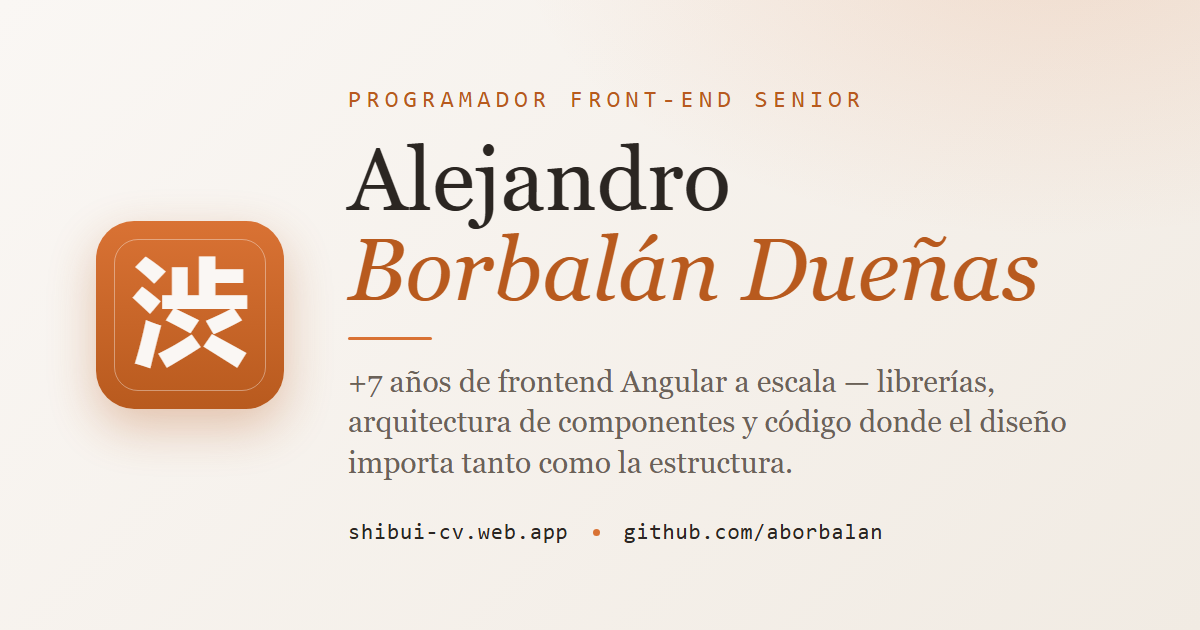
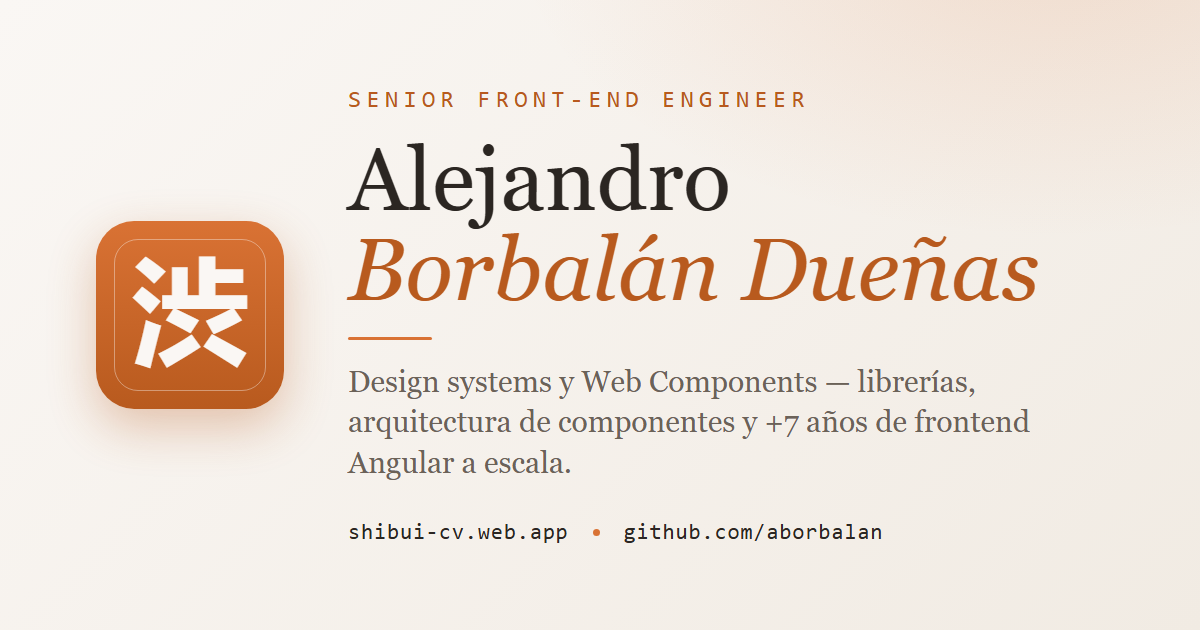
feat(app-cv): reposicionar titular hacia design engineer
profile.title pasa a "Senior Front-end Engineer · Angular & Web
Components · Design Systems · Open to Remote" (un solo string con
separador " · "); el hero lo trocea en kicker de 2 niveles (rol como
eyebrow + especialidades en línea mono muted con segmentos no
partibles). La tagline abre con design systems. Metas de index.html,
plantilla OG y og-image.png regenerado en coherencia.

Changed region(s): [[0.2775, 0.573, 0.8942, 0.6937], [0.2775, 0.1508, 0.7092, 0.181], [0.2775, 0.7238, 0.6783, 0.754]]

diff --git a/apps/app-cv/src/index.html b/apps/app-cv/src/index.html
@@ -3,10 +3,10 @@
   <head>
     <meta charset="UTF-8" />
     <meta name="viewport" content="width=device-width, initial-scale=1.0" />
-    <title>Alejandro Borbalán — Programador Front-End Senior</title>
+    <title>Alejandro Borbalán — Senior Front-end Engineer</title>
     <meta
       name="description"
-      content="CV de Alejandro Borbalán Dueñas — Programador Front-End Senior. +7 años de Angular a escala: librerías, arquitectura de componentes y diseño."
+      content="CV de Alejandro Borbalán Dueñas — Senior Front-end Engineer. Design systems y Web Components: librerías, arquitectura de componentes y +7 años de Angular a escala."
     />
     <meta name="author" content="Alejandro Borbalán Dueñas" />
     <meta name="theme-color" content="#d97234" />
@@ -17,23 +17,23 @@
     <meta property="og:type" content="website" />
     <meta property="og:url" content="https://shibui-cv.web.app/" />
     <meta property="og:site_name" content="Alejandro Borbalán — CV" />
-    <meta property="og:title" content="Alejandro Borbalán — Programador Front-End Senior" />
+    <meta property="og:title" content="Alejandro Borbalán — Senior Front-end Engineer" />
     <meta
       property="og:description"
-      content="+7 años de frontend Angular a escala — librerías, arquitectura de componentes y código donde el diseño importa tanto como la estructura."
+      content="Design systems y Web Components — librerías, arquitectura de componentes y +7 años de frontend Angular a escala."
     />
     <meta property="og:image" content="https://shibui-cv.web.app/og-image.png" />
     <meta property="og:image:width" content="1200" />
     <meta property="og:image:height" content="630" />
-    <meta property="og:image:alt" content="Alejandro Borbalán Dueñas — Programador Front-End Senior" />
+    <meta property="og:image:alt" content="Alejandro Borbalán Dueñas — Senior Front-end Engineer" />
     <meta property="og:locale" content="es_ES" />
 
     <!-- Twitter / X -->
     <meta name="twitter:card" content="summary_large_image" />
-    <meta name="twitter:title" content="Alejandro Borbalán — Programador Front-End Senior" />
+    <meta name="twitter:title" content="Alejandro Borbalán — Senior Front-end Engineer" />
     <meta
       name="twitter:description"
-      content="+7 años de frontend Angular a escala — librerías, arquitectura de componentes y diseño de sistemas."
+      content="Design systems y Web Components — librerías, arquitectura de componentes y Angular a escala."
     />
     <meta name="twitter:image" content="https://shibui-cv.web.app/og-image.png" />
 

diff --git a/apps/app-cv/src/components/hero/hero.ts b/apps/app-cv/src/components/hero/hero.ts
@@ -4,6 +4,7 @@ import {
   DestroyRef,
   ElementRef,
   afterNextRender,
+  computed,
   inject,
   input,
 } from '@angular/core';
@@ -33,7 +34,19 @@ import { Profile } from '@data/cv';
           [line1]="profile().firstName"
           [accent]="profile().lastName"
         >
-          <lib-eyebrow slot="eyebrow" tone="accent" size="lg">{{ profile().title }}</lib-eyebrow>
+          <div slot="eyebrow" class="hero__kicker">
+            <lib-eyebrow tone="accent" size="lg">{{ titleParts().head }}</lib-eyebrow>
+            @if (titleParts().meta.length) {
+              <p class="hero__kicker-meta">
+                @for (seg of titleParts().meta; track seg; let last = $last) {
+                  <span class="hero__kicker-seg">{{ seg }}</span>
+                  @if (!last) {
+                    <span aria-hidden="true">·</span>
+                  }
+                }
+              </p>
+            }
+          </div>
         </lib-display-heading>
 
         <p class="hero__tagline">{{ profile().tagline }}</p>
@@ -89,6 +102,27 @@ import { Profile } from '@data/cv';
         flex-direction: column;
         gap: var(--lib-space-lg, 24px);
         padding-block: var(--lib-space-xl, 32px);
+      }
+      .hero__kicker {
+        display: flex;
+        flex-direction: column;
+        gap: var(--lib-space-xs, 4px);
+      }
+      /* Segunda línea del titular: especialidades en mono muted. Cada
+         segmento es no-partible: los saltos caen siempre en los separadores. */
+      .hero__kicker-meta {
+        margin: 0;
+        display: flex;
+        flex-wrap: wrap;
+        gap: var(--lib-space-xs, 4px) var(--lib-space-sm, 8px);
+        font-family: var(--lib-font-mono, monospace);
+        font-size: var(--text-xs, 0.6875rem);
+        letter-spacing: var(--tracking-wide, 0.08em);
+        text-transform: uppercase;
+        color: var(--text-muted);
+      }
+      .hero__kicker-seg {
+        white-space: nowrap;
       }
       .hero__tagline {
         margin: 0;
@@ -204,6 +238,12 @@ import { Profile } from '@data/cv';
 })
 export class Hero {
   readonly profile = input.required<Profile>();
+
+  /** Titular troceado por ' · ': head = rol (eyebrow), meta = especialidades. */
+  protected readonly titleParts = computed(() => {
+    const [head = '', ...meta] = this.profile().title.split(' · ');
+    return { head, meta };
+  });
 
   private readonly host = inject<ElementRef<HTMLElement>>(ElementRef);
   private readonly destroyRef = inject(DestroyRef);

diff --git a/apps/app-cv/src/data/cv.ts b/apps/app-cv/src/data/cv.ts
@@ -13,7 +13,10 @@ export interface Profile {
   firstName: string;
   /** Apellidos (acento itálico del titular) */
   lastName: string;
-  /** Mismo título que en LinkedIn — kicker sobre el nombre */
+  /**
+   * Titular completo, segmentos separados por ' · '. El hero lo trocea
+   * tipográficamente: 1er segmento = kicker eyebrow; el resto, línea meta.
+   */
   title: string;
   /** Tagline de una línea: qué hago y para qué sirve */
   tagline: string;
@@ -80,9 +83,10 @@ export interface ProjectItem {
 export const profile: Profile = {
   firstName: 'Alejandro',
   lastName: 'Borbalán Dueñas',
-  title: 'Programador Front-End Senior',
+  title:
+    'Senior Front-end Engineer · Angular & Web Components · Design Systems · Open to Remote',
   tagline:
-    'Más de 7 años construyendo frontend Angular a escala — librerías, arquitectura de componentes y código donde el diseño importa tanto como la estructura.',
+    'Diseño y construyo design systems — Web Components que viven idénticos en React, Angular y Svelte — con más de 7 años de frontend a escala donde el diseño importa tanto como la estructura.',
   location: 'Zaragoza, España',
   github: 'https://github.com/aborbalan', // TODO: verificar handle público
   linkedin: 'https://www.linkedin.com/in/alejandro-borbalan-duenas-a20142167',

diff --git a/apps/app-cv/tools/og-image.html b/apps/app-cv/tools/og-image.html
@@ -96,12 +96,12 @@
   <body>
     <div class="seal"><span>渋</span></div>
     <div class="body">
-      <div class="eyebrow">Programador Front-End Senior</div>
+      <div class="eyebrow">Senior Front-end Engineer</div>
       <h1>Alejandro<br /><span class="accent">Borbalán Dueñas</span></h1>
       <div class="rule"></div>
       <p class="tagline">
-        +7 años de frontend Angular a escala — librerías, arquitectura de componentes
-        y código donde el diseño importa tanto como la estructura.
+        Design systems y Web Components — librerías, arquitectura de componentes
+        y +7 años de frontend Angular a escala.
       </p>
       <div class="foot">
         <span>shibui-cv.web.app</span>
